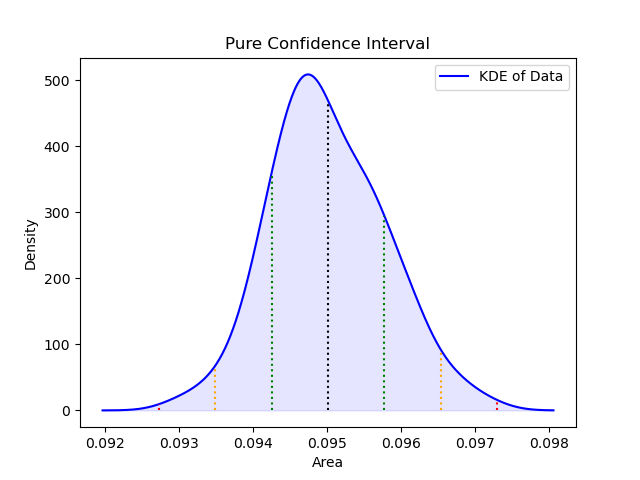
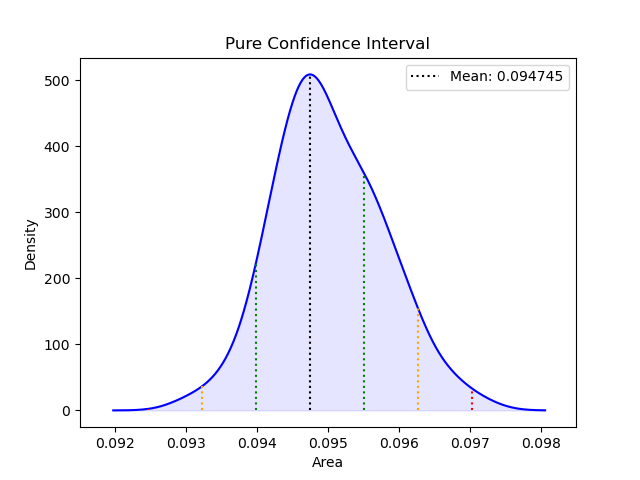
make the graph place the mean correct

diff --git a/src/metrics.py b/src/metrics.py
@@ -104,9 +104,11 @@ def calculate_confidence_intervals(bins=100):
         std_dev = interval['standard_deviation']
 
         kde = stats.gaussian_kde(area)
-    
         x_vals = np.linspace(mean - 4 * std_dev, mean + 4 * std_dev, 1000)
         y_vals = kde(x_vals)
+
+        mode_index = np.argmax(y_vals)
+        mean = x_vals[mode_index]
         
         plt.plot(x_vals, y_vals, color='b')
         plt.fill_between(x_vals, y_vals, color='b', alpha=0.1)
@@ -116,11 +118,16 @@ def calculate_confidence_intervals(bins=100):
             x_line = mean + i * std_dev
             y_value = kde(x_line)
 
-            plt.vlines(x_line, ymin=0, ymax=y_value, color=color, linestyle=':')
+            mean_label = None
+            if i == 0:
+                mean_label = f'Mean: {mean:.6f}'
+            plt.vlines(x_line, ymin=0, ymax=y_value, color=color, linestyle=':', label=mean_label)
 
         plt.xlabel('Area')
         plt.ylabel('Density')
         plt.title(f'{label} Confidence Interval')
+        plt.xlim(0.0915, 0.0985)
+        plt.legend()
         plt.savefig(os.path.join(IMG_STATISTIC_DIR, f'{label}_CI.png'))
         plt.close()
 
@@ -178,13 +185,13 @@ def plot_area_distributions():
 # Example usage
 if __name__ == "__main__":
     mean_and_variance = calculate_mean_and_variance()
-    print("Mean and Variance:", mean_and_variance)
+    # print("Mean and Variance:", mean_and_variance)
 
     mse = calculate_mse()
-    print("Mean Squared Error (MSE):", mse)
+    # print("Mean Squared Error (MSE):", mse)
 
     confidence_intervals = calculate_confidence_intervals()
-    print("Confidence Intervals:", confidence_intervals)
+    # print("Confidence Intervals:", confidence_intervals)
 
     # Plot area distributions
     plot_area_distributions()
